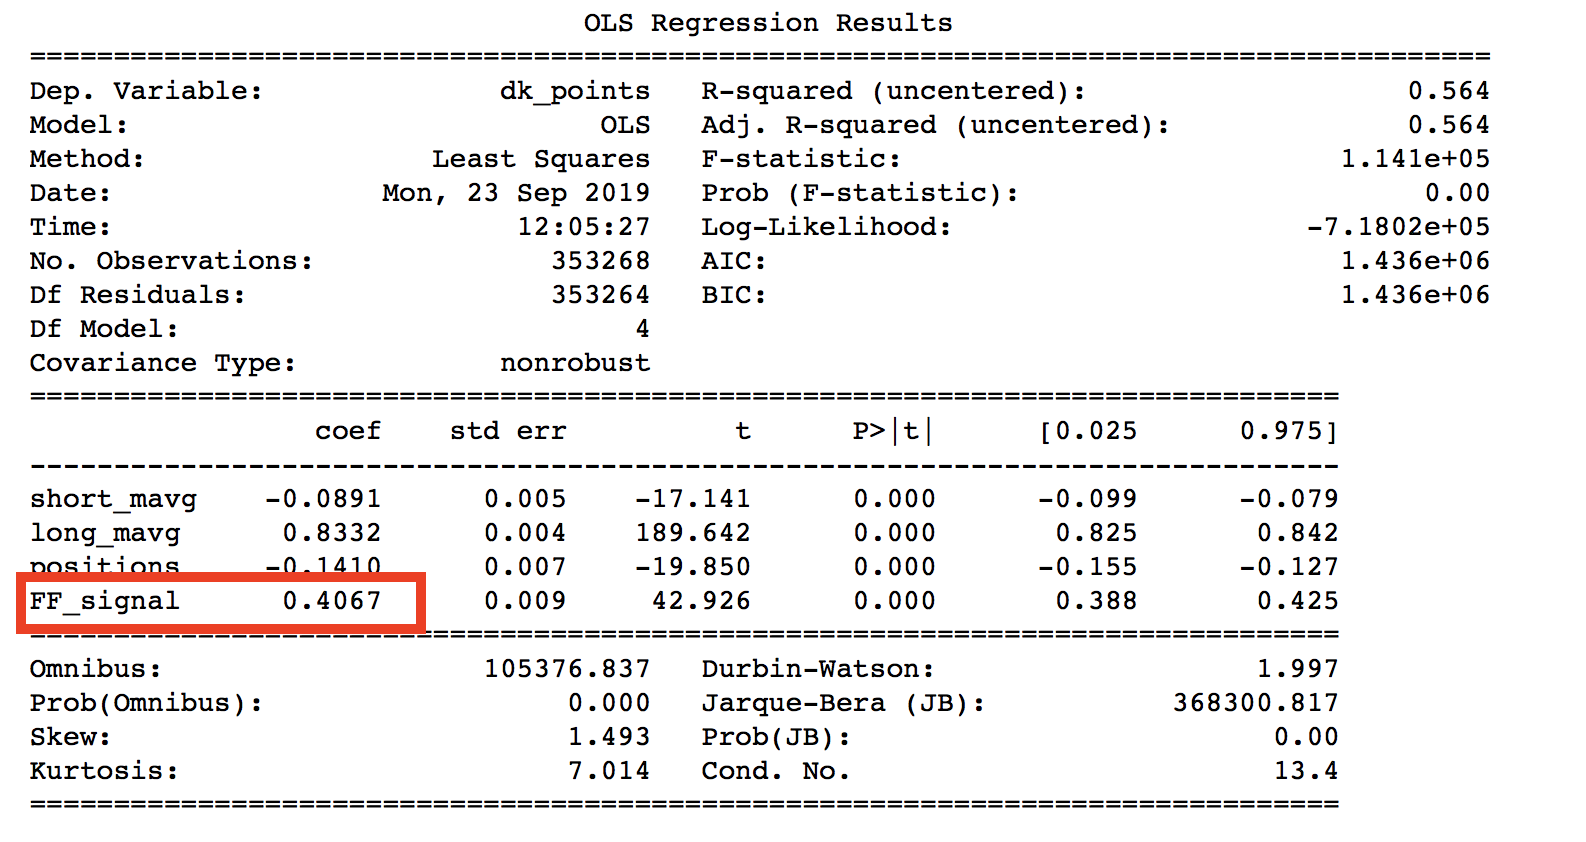
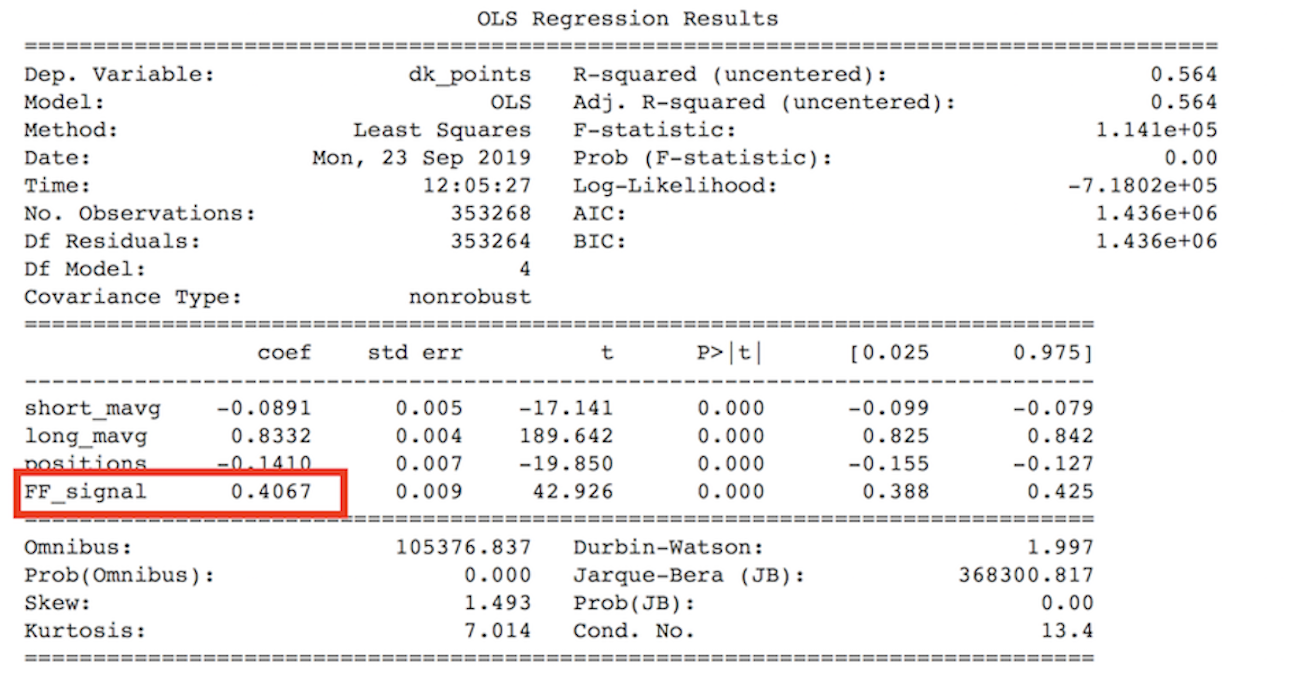
resizing images

Changed region(s): [[0.0, 0.5486, 0.8642, 0.9753], [0.0, 0.0, 0.9568, 0.5181]]

diff --git a/Capstone_2/README.md b/Capstone_2/README.md
@@ -175,18 +175,18 @@ Given the capstone’s primary objective of being able to supply accurate projec
 
 
 
- ![nm](https://github.com/mhbw/springboard/blob/master/Capstone_2/images/naive1.png&s=200) 
+ ![nm](https://github.com/mhbw/springboard/blob/master/Capstone_2/images/naive1.png) 
 
-![fc1](https://github.com/mhbw/springboard/blob/master/Capstone_2/images/naive2.png&s=200) 
+![fc1](https://github.com/mhbw/springboard/blob/master/Capstone_2/images/naive2.png) 
 
 Again, the typical lower bound for cashing in in a contest is 35 points so given that target the FantasyCruncher lineup would have succeeded while the naïve model would not. 
 
  
 
 That said, the story is wildly different given even minimal human supervision. In these examples, FantasyCruncher was limited to two options in the goalie position, selected solely based on being the starting goalie for the team most favored to win by the Las Vegas Casinos. I set the same assignment for the FantasyCruncher model but the scores were wildly different in this case. The Non-Naïve model (upper) would have done significantly better than FantasyCruncher alone (lower).
- ![nm1](https://github.com/mhbw/springboard/blob/master/Capstone_2/images/non_naive1.png&s=200) 
+ ![nm1](https://github.com/mhbw/springboard/blob/master/Capstone_2/images/non_naive1.png) 
 
-![fc2](https://github.com/mhbw/springboard/blob/master/Capstone_2/images/nonnaive2.png&s=200) 
+![fc2](https://github.com/mhbw/springboard/blob/master/Capstone_2/images/nonnaive2.png) 
 
  
 
